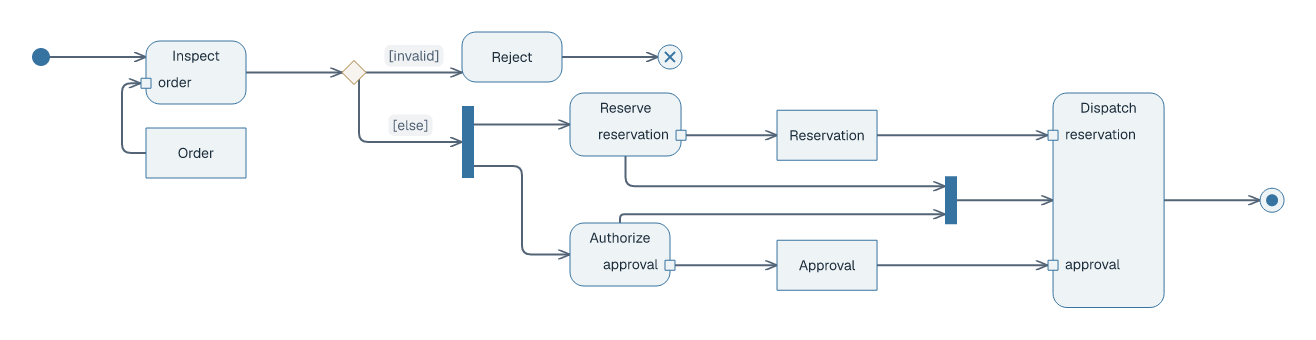
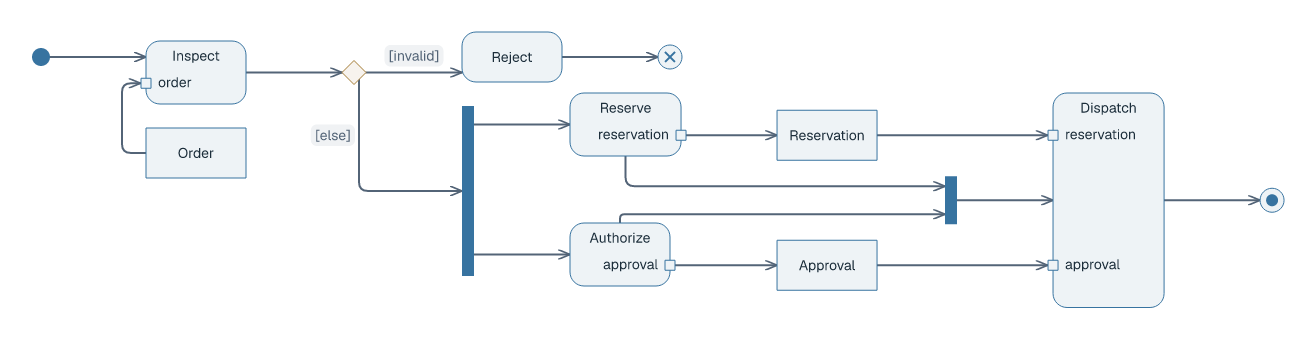
Allow authored long-axis length on UML activity fork and join bars

diff --git a/tests/activity.rs b/tests/activity.rs
@@ -142,6 +142,9 @@ fn parallel_activity_places_objects_in_lanes_without_diagonal_or_crossing_flows(
         (reservation.x + reservation.width / 2.0 - approval.x - approval.width / 2.0).abs() < 0.01
     );
     assert!(reserve.y < authorize.y);
+    let fork = node("Parallel");
+    assert_eq!(fork.width, 12.0);
+    assert_eq!(fork.height, 170.0);
     assert!(reservation.x + reservation.width + 32.0 < join.x);
     assert!(join.x + join.width < dispatch.x);
     let pin_y =
@@ -174,6 +177,7 @@ fn parallel_activity_places_objects_in_lanes_without_diagonal_or_crossing_flows(
         ("Authorize::approval", "Approval"),
         ("Approval", "Dispatch::approval"),
         ("Parallel", "Reserve"),
+        ("Parallel", "Authorize"),
         ("Together", "Dispatch"),
         ("Inspect", "Valid"),
         ("Valid", "Reject"),
@@ -187,7 +191,6 @@ fn parallel_activity_places_objects_in_lanes_without_diagonal_or_crossing_flows(
     }
     for (from, to) in [
         ("Valid", "Parallel"),
-        ("Parallel", "Authorize"),
         ("Reserve", "Together"),
         ("Authorize", "Together"),
     ] {
@@ -208,7 +211,10 @@ fn parallel_activity_places_objects_in_lanes_without_diagonal_or_crossing_flows(
 
 #[test]
 fn authored_multi_input_action_height_is_not_overridden_by_auto_layout() {
-    let source = format!("{ORDER}\nstyling {{\nnode[Dispatch] {{\nheight: 100\n}}\n}}");
+    let source = ORDER.replace(
+        "styling {",
+        "styling {\n    node[Dispatch] {\n        height: 100\n    }",
+    );
     let diagram = parse(&source).unwrap();
     let sheet = load(&diagram, Path::new("examples/activity-order.laml")).unwrap();
     let boxes = place(&diagram, &sheet).unwrap();
@@ -254,6 +260,57 @@ fn simple_activity_renders_and_exports() {
     assert!(svg.contains("rx=\"14.00\""));
     assert!(export::png(&svg).is_ok());
     assert!(export::pdf(&svg).is_ok());
+}
+
+#[test]
+fn authored_bar_length_follows_flow_orientation_and_preserves_join_size() {
+    for (direction, expected_fork, expected_join) in [
+        ("", (12.0, 170.0), (12.0, 110.0)),
+        ("direction: top-to-bottom", (170.0, 12.0), (110.0, 12.0)),
+    ] {
+        let text = ORDER.replacen("type: activity", &format!("type: activity\n{direction}"), 1)
+            .replace("node[Parallel] {\n        length: 170\n    }", "node[Parallel] {\n        length: 170\n    }\n    node[Together] {\n        length: 110\n    }");
+        let diagram = parse(&text).unwrap();
+        let sheet = load(&diagram, Path::new("examples/activity-order.laml")).unwrap();
+        let boxes = place(&diagram, &sheet).unwrap();
+        let fork = boxes.iter().find(|n| n.id == "Parallel").unwrap();
+        let join = boxes.iter().find(|n| n.id == "Together").unwrap();
+        assert_eq!((fork.width, fork.height), expected_fork);
+        assert_eq!((join.width, join.height), expected_join);
+    }
+}
+
+#[test]
+fn bar_length_does_not_resize_other_uml_control_symbols() {
+    let too_short = ORDER.replace("length: 170", "length: 12");
+    let diagram = parse(&too_short).unwrap();
+    let sheet = load(&diagram, Path::new("examples/activity-order.laml")).unwrap();
+    assert!(
+        place(&diagram, &sheet)
+            .unwrap_err()
+            .message
+            .contains("at least 24")
+    );
+
+    let invalid = ORDER.replace("node[Parallel]", "node[Valid]");
+    let diagram = parse(&invalid).unwrap();
+    let sheet = load(&diagram, Path::new("examples/activity-order.laml")).unwrap();
+    assert!(
+        place(&diagram, &sheet)
+            .unwrap_err()
+            .message
+            .contains("only valid for activity fork/join")
+    );
+
+    let invalid = ORDER.replace("node[Parallel]", "node[Reserve]");
+    let diagram = parse(&invalid).unwrap();
+    let sheet = load(&diagram, Path::new("examples/activity-order.laml")).unwrap();
+    assert!(
+        place(&diagram, &sheet)
+            .unwrap_err()
+            .message
+            .contains("only valid for activity fork/join")
+    );
 }
 
 #[test]

diff --git a/src/geometry/junctions.rs b/src/geometry/junctions.rs
@@ -23,6 +23,17 @@ pub(super) fn measure(
     {
         return Err("initial or fork/join control node must remain visibly filled".into());
     }
+    let activity_bar = matches!(node.kind, NodeKind::ActivityFork | NodeKind::ActivityJoin);
+    let authored_length = sheet.get(&element, "length").and_then(|d| match d.value {
+        Value::Number(value) => Some(value),
+        _ => None,
+    });
+    if authored_length.is_some() && !activity_bar {
+        return Err("length is only valid for activity fork/join bars".into());
+    }
+    if authored_length.is_some_and(|length| length < 24.0) {
+        return Err("activity fork/join length must be at least 24".into());
+    }
     if [
         "shape",
         "width",
@@ -112,11 +123,12 @@ pub(super) fn measure(
             direction,
             FlowDirection::LeftToRight | FlowDirection::RightToLeft
         );
+    let bar_length = authored_length.unwrap_or(72.0);
     let base = match node.kind {
         NodeKind::Lollipop | NodeKind::Socket => 20.0,
         NodeKind::StateInitial | NodeKind::ActivityInitial => 18.0,
         NodeKind::ActivityFork | NodeKind::ActivityJoin if vertical_bar => 12.0,
-        NodeKind::ActivityFork | NodeKind::ActivityJoin => 72.0,
+        NodeKind::ActivityFork | NodeKind::ActivityJoin => bar_length,
         _ => 24.0,
     };
     let width = if label.is_empty() {
@@ -125,7 +137,7 @@ pub(super) fn measure(
         base + 12.0 + text_width(&label, 14.0)?
     };
     let height = if matches!(node.kind, NodeKind::ActivityFork | NodeKind::ActivityJoin) {
-        if vertical_bar { 72.0 } else { 12.0 }
+        if vertical_bar { bar_length } else { 12.0 }
     } else if label.is_empty() {
         base
     } else {
@@ -168,8 +180,8 @@ pub(super) fn measure(
         y: 0.0,
         width,
         height,
-        fixed_width: None,
-        fixed_height: None,
+        fixed_width: (!vertical_bar).then_some(authored_length).flatten(),
+        fixed_height: vertical_bar.then_some(authored_length).flatten(),
         font_size: 14.0,
         padding: 0.0,
         fill: if matches!(

diff --git a/src/styles.rs b/src/styles.rs
@@ -240,7 +240,7 @@ fn validate_value(property: &Property, path: &Path) -> Result<Value, StyleError>
             }
             Ok(Value::Color(parsed))
         }
-        "padding" | "min-width" | "min-height" | "width" | "height" | "font-size"
+        "padding" | "min-width" | "min-height" | "width" | "height" | "length" | "font-size"
         | "border-width" | "corner-radius" => {
             let number = value
                 .parse::<f64>()

diff --git a/src/geometry/nodes.rs b/src/geometry/nodes.rs
@@ -108,6 +108,9 @@ pub fn measure_node(
         id: &node.id,
         classes: &node.classes,
     };
+    if styles.get(&element, "length").is_some() {
+        return Err("length is only valid for activity fork/join bars".into());
+    }
     let shape = match styles.get(&element, "shape").map(|d| &d.value) {
         Some(Value::Keyword(value)) => match value.as_str() {
             "rectangle" => NodeShape::Rectangle,

diff --git a/src/geometry/activity.rs b/src/geometry/activity.rs
@@ -10,7 +10,7 @@ pub(super) fn size_nodes(diagram: &Diagram, boxes: &mut [BoxNode]) {
         return;
     }
     for node in boxes {
-        if node.kind == NodeKind::ActivityJoin {
+        if node.kind == NodeKind::ActivityJoin && node.fixed_height.is_none() {
             let arms = diagram
                 .relations
                 .iter()

diff --git a/docs/diagrams/activity.md b/docs/diagrams/activity.md
@@ -41,14 +41,19 @@ semantics {
     control Authorize --> Together
     // […]
 }
+styling {
+    node[Parallel] {
+        length: 170
+    }
+}
 ```
 
 <picture>
-  <source media="(prefers-color-scheme: dark)" srcset="../images/activity-order-modern-dark.png?v=activity-invalid-horizontal-20261104">
-  <img src="../images/activity-order-modern.png?v=activity-invalid-horizontal-20261104" alt="Order activity with guarded decision and fork/join">
+  <source media="(prefers-color-scheme: dark)" srcset="../images/activity-order-modern-dark.png?v=activity-fork-length-20261104">
+  <img src="../images/activity-order-modern.png?v=activity-fork-length-20261104" alt="Order activity with guarded decision and extended fork/join">
 </picture>
 
-[Complete source](../../examples/activity-order.laml). A `decision` uses guarded outgoing paths; `fork` and `join` split and rejoin parallel paths. `flowFinal` ends one path, `activityFinal` ends the activity.
+[Complete source](../../examples/activity-order.laml). A `decision` uses guarded outgoing paths; `fork` and `join` split and rejoin parallel paths. `length` extends the fork along its long axis so both outgoing arrows can run horizontally. `flowFinal` ends one path, `activityFinal` ends the activity.
 
 ## More data flows
 
@@ -61,8 +66,8 @@ object Approval --> Dispatch::approval
 ```
 
 <picture>
-  <source media="(prefers-color-scheme: dark)" srcset="../images/activity-order-modern-dark.png?v=activity-invalid-horizontal-20261104">
-  <img src="../images/activity-order-modern.png?v=activity-invalid-horizontal-20261104" alt="Named action pins and object nodes in the order activity">
+  <source media="(prefers-color-scheme: dark)" srcset="../images/activity-order-modern-dark.png?v=activity-fork-length-20261104">
+  <img src="../images/activity-order-modern.png?v=activity-fork-length-20261104" alt="Named action pins and object nodes in the order activity">
 </picture>
 
 [Complete source](../../examples/activity-order.laml). `Action::pin` addresses an input or output pin. See [GNE](gne.md) for common placement/styling and the [syntax reference](../language-reference.md#activity-diagrams) for vertex and flow forms.

diff --git a/docs/activity-diagrams.md b/docs/activity-diagrams.md
@@ -18,4 +18,16 @@ Use `control A --> B` for a control flow, or `object A::output --> Result` / `ob
 
 For a left-to-right control chain, automatic placement prefers a direct entry from the initial node on the action's left and a direct exit on its right. When an action has a named input pin, the incoming control arrow uses the clear upper part of the left edge. A single object node feeding that pin prefers a row below the action; its object flow approaches the input square separately. For a left-to-right parallel two-branch activity with two object inputs, automatic placement can align each object with its output pin and matching input pin. It sizes the join bar for its incoming controls and expands the receiving action to leave a separate central control lane. Explicit action heights are preserved. Authored layout remains mandatory and takes precedence over these preferences.
 
+To extend a fork or join bar, set its **long-axis length** in LSS. In a left-to-right activity the bar grows vertically; in a top-to-bottom activity it grows horizontally. Its thickness stays at the UML notation's 12 px:
+
+```laml
+styling {
+    node[Parallel] {
+        length: 170
+    }
+}
+```
+
+Bars start at 72 px; left-to-right multi-input joins can be sized automatically. An explicit `length` (at least 24 px) overrides that automatic sizing. The compiler preserves the specified length, while the router can attach separate outgoing control flows horizontally to the longer bar. `width` and `height` remain unavailable on these control symbols; use `length` instead. See the [order example](../examples/activity-order.laml).
+
 `laml build` validates the drawn control and object flows, their endpoints and their routed geometry.

diff --git a/docs/language-reference.md b/docs/language-reference.md
@@ -89,7 +89,7 @@ Set `type: state` for a checked behavior state-machine image. `state Ready` is a
 
 ## Activity diagrams
 
-Set `type: activity`. Declare `action`, `objectNode`, `initial`, `activityFinal`, `flowFinal`, `decision`, `merge`, `fork` and `join` explicitly. An action body can declare `input Name` and `output Name` pins; object flows address them as `Action::Name`. Use `control A --> B` for control flow and `object A::out --> B::in` for object flow. Decision exits require `[guard]` labels. The [activity guide](activity-diagrams.md) and [UML notation audit](uml-activity-conformance.md) document the checked topology and unsupported notation.
+Set `type: activity`. Declare `action`, `objectNode`, `initial`, `activityFinal`, `flowFinal`, `decision`, `merge`, `fork` and `join` explicitly. An action body can declare `input Name` and `output Name` pins; object flows address them as `Action::Name`. Use `control A --> B` for control flow and `object A::out --> B::in` for object flow. Decision exits require `[guard]` labels. In `styling`, `node[BarId] { length: 170 }` sets the long-axis length of a `fork` or `join` (minimum 24); its thickness remains fixed. The [activity guide](activity-diagrams.md) and [UML notation audit](uml-activity-conformance.md) document the checked topology and unsupported notation.
 
 ## Use-case diagrams
 
